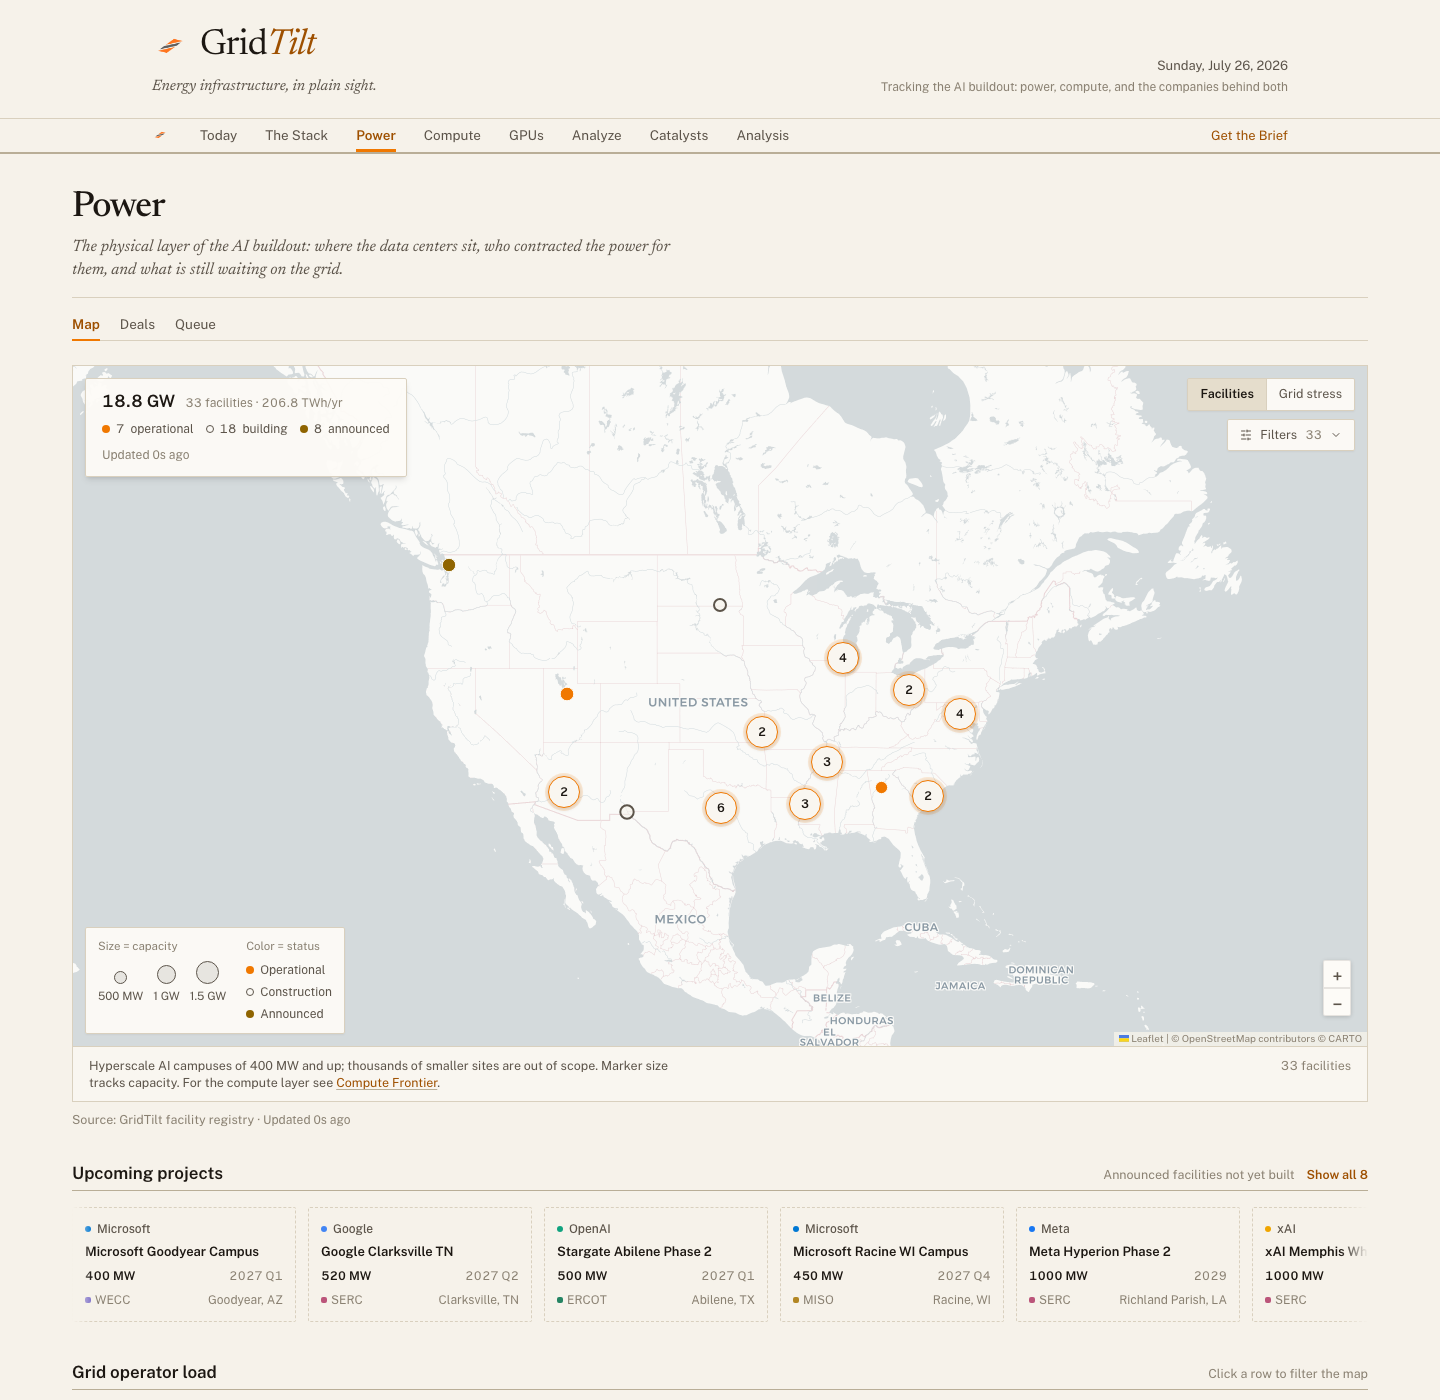
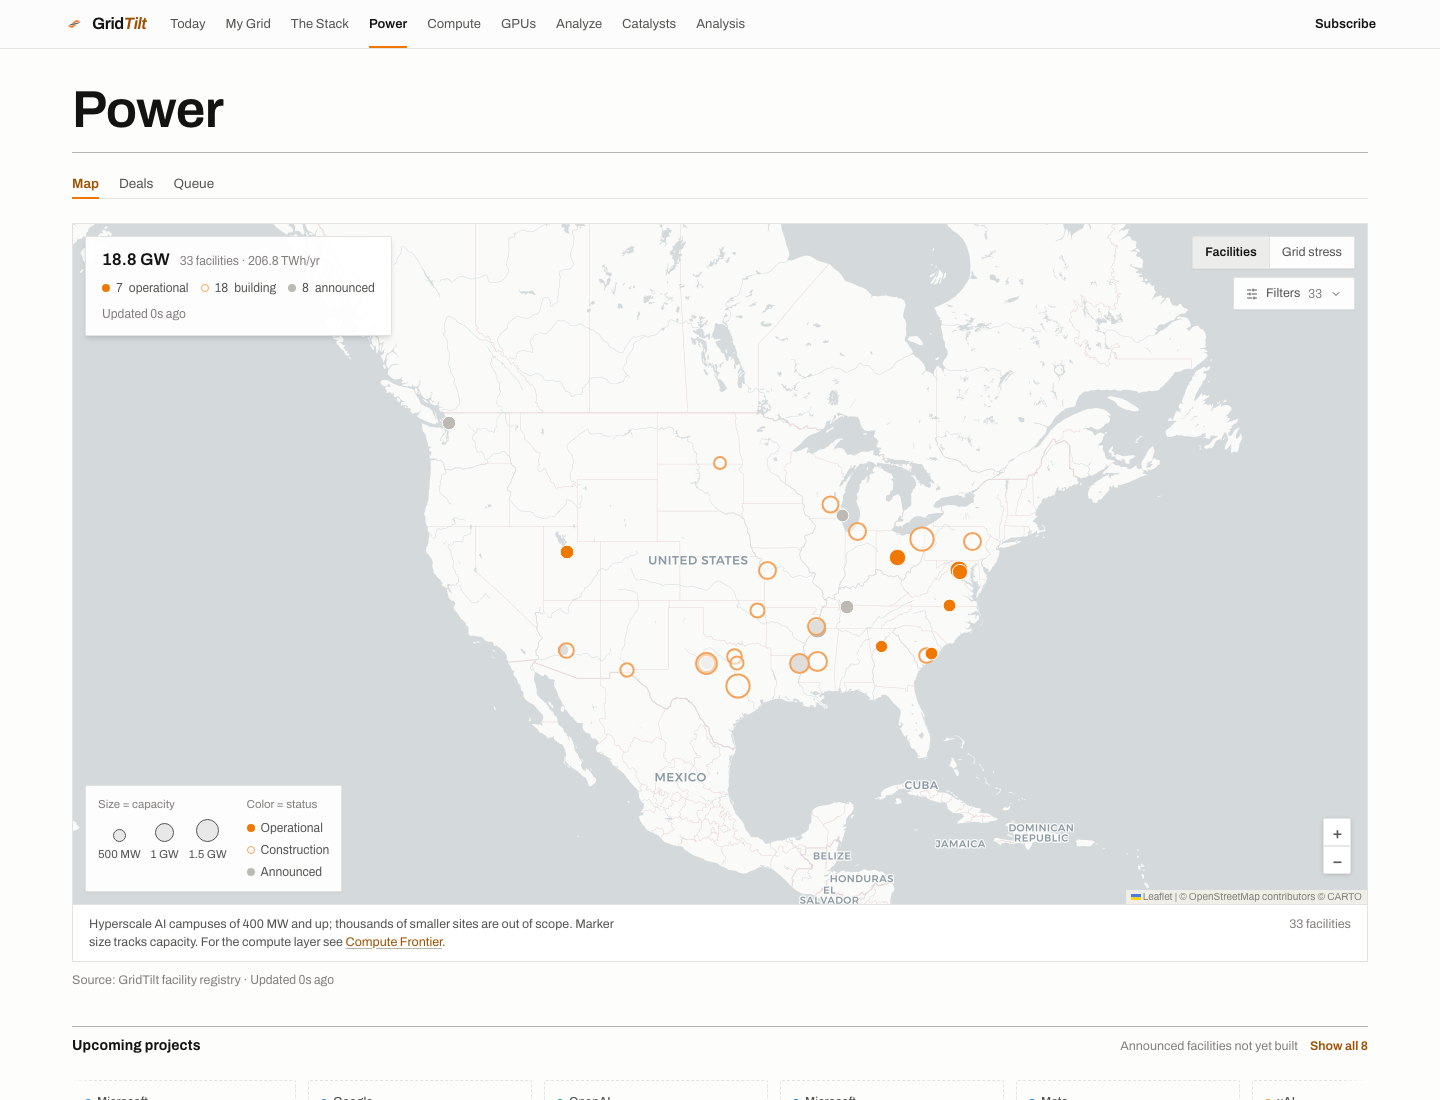
design: detailed map nodes, brand orange charts, no brown, no self-narration
Power map drops count-bubble clustering entirely; all 33 facilities
render as individual capacity-sized nodes (orange operational, orange
ring construction, neutral gray announced). The ochre-brown announced
color and dark-orange chart fills are gone; Compute Frontier charts run
brand orange with an accented headline stat and truncated operator
labels. 'tracked, not exhaustive' overexplaining removed; page-title
and scotch rules thinned.

diff --git a/client/src/pages/PowerMap.tsx b/client/src/pages/PowerMap.tsx
@@ -4,12 +4,6 @@ import { Link } from "wouter";
 import { MapContainer, TileLayer, ZoomControl, useMap, useMapEvents } from "react-leaflet";
 import L from "leaflet";
 import "leaflet/dist/leaflet.css";
-import "leaflet.markercluster";
-// MarkerCluster.Default.css is intentionally NOT imported: it only supplies
-// the library's blue cluster blobs, which clash with the paper ground. Our
-// iconCreateFunction renders .gt-cluster icons styled in the <style> block
-// below, so the default sheet has no consumer here.
-import "leaflet.markercluster/dist/MarkerCluster.css";
 import { Skeleton } from "@/components/ui/skeleton";
 import { AsOf, ErrorState } from "@/components/Freshness";
 import { X, SlidersHorizontal, ChevronDown } from "lucide-react";
@@ -100,8 +94,8 @@ const companyColors: Record<string, string> = {
  */
 const MARKER_COLORS: Record<DataCenter["status"], string> = {
   operational:  BRAND.primary,   // #F07800
-  construction: INK.secondary,   // #5C544A, drawn as a ring
-  announced:    SEMANTIC.warning, // #8F6400
+  construction: "#F5A25A",   // #5C544A, drawn as a ring
+  announced:    "#BDBAB4", // neutral: not yet real
 };
 
 /** Status as typography, not a pill: weight and ink step carry the state. */
@@ -453,7 +447,7 @@ function FacilityMarkers({
 }) {
   const map = useMap();
   const markersRef = useRef<Record<number, L.Marker>>({});
-  const clusterRef = useRef<L.MarkerClusterGroup | null>(null);
+  const clusterRef = useRef<L.LayerGroup | null>(null);
 
   const passesFilter = useCallback((dc: DataCenter): boolean => {
     return dcPassesFilters(dc, filterCompanies, filterRTOs, filterCapacity, rtoFocus);
@@ -463,25 +457,10 @@ function FacilityMarkers({
   // deliberately NOT deps here - hover/selection restyle imperatively below,
   // so mouseover no longer tears down and rebuilds every layer (audit perf fix).
   useEffect(() => {
+    // No clustering: 33 facilities read better as individual sized pins
+    // than as abstract count bubbles. Every node stays inspectable.
     if (!clusterRef.current) {
-      clusterRef.current = L.markerClusterGroup({
-        maxClusterRadius: 42,
-        showCoverageOnHover: false,
-        spiderfyOnMaxZoom: true,
-        zoomToBoundsOnClick: true,
-        spiderfyDistanceMultiplier: 1.4,
-        spiderLegPolylineOptions: { weight: 1, color: BRAND.primary, opacity: 0.4 },
-        iconCreateFunction: (cluster) => {
-          const count = cluster.getChildCount();
-          const d = count >= 10 ? 38 : 32;
-          return L.divIcon({
-            html: `<div class="gt-cluster" style="width:${d}px;height:${d}px;">${count}</div>`,
-            className: "gt-cluster-wrap",
-            iconSize: [d, d],
-            iconAnchor: [d / 2, d / 2],
-          });
-        },
-      });
+      clusterRef.current = L.layerGroup();
       map.addLayer(clusterRef.current);
     }
 
@@ -522,7 +501,7 @@ function FacilityMarkers({
       markers[dc.id] = marker;
     });
 
-    group.addLayers(Object.values(markers));
+    Object.values(markers).forEach((m) => group.addLayer(m));
     markersRef.current = markers;
 
     return () => {

diff --git a/client/src/pages/compute-frontier.tsx b/client/src/pages/compute-frontier.tsx
@@ -232,6 +232,7 @@ export default function ComputeFrontier() {
             note={metrics ? `of ${gw(metrics.totalRatedMW)} GW rated today` : undefined}
           />
           <PullStat
+            accent
             label="Planned power"
             value={metrics ? `${gw(metrics.totalPlannedMW)} GW` : "—"}
             note="full announced build-out"
@@ -255,7 +256,6 @@ export default function ComputeFrontier() {
         <Provenance
           source="GridTilt cluster registry"
           updated={metrics?.lastRefreshed ?? undefined}
-          extra="tracked, not exhaustive"
         />
       </section>
 
@@ -269,7 +269,14 @@ export default function ComputeFrontier() {
               <BarChart data={topOperators} layout="vertical" margin={{ left: 8, right: 16, top: 4, bottom: 4 }}>
                 <CartesianGrid {...gridProps} vertical={true} horizontal={false} />
                 <XAxis {...axisProps} type="number" tickFormatter={(v) => `${(v / 1000).toFixed(0)}`} />
-                <YAxis {...axisProps} type="category" dataKey="operator" width={110} interval={0} />
+                <YAxis
+                  {...axisProps}
+                  type="category"
+                  dataKey="operator"
+                  width={118}
+                  interval={0}
+                  tickFormatter={(name: string) => (name.length > 16 ? `${name.slice(0, 15)}…` : name)}
+                />
                 <RTooltip contentStyle={tooltipContentStyle} labelStyle={tooltipLabelStyle} itemStyle={tooltipItemStyle} formatter={(v: number, _n, p: any) => [`${v.toLocaleString()} MW`, `${p.payload.count} clusters`]} cursor={{ fill: BRAND.wash }} />
                 <Bar dataKey="plannedMW" fill={BRAND.primary} radius={[0, 2, 2, 0]} />
               </BarChart>
@@ -295,7 +302,7 @@ export default function ComputeFrontier() {
                 <XAxis {...axisProps} dataKey="iso" />
                 <YAxis {...axisProps} tickFormatter={(v) => `${(v / 1000).toFixed(0)}`} />
                 <RTooltip contentStyle={tooltipContentStyle} labelStyle={tooltipLabelStyle} itemStyle={tooltipItemStyle} formatter={(v: number) => [`${v.toLocaleString()} MW`, "planned"]} cursor={{ fill: BRAND.wash }} />
-                <Bar dataKey="plannedMW" fill={BRAND.secondary} radius={[2, 2, 0, 0]} />
+                <Bar dataKey="plannedMW" fill={BRAND.primary} radius={[2, 2, 0, 0]} />
               </BarChart>
             </ResponsiveContainer>
           ) : <ChartSkeleton />}
@@ -532,7 +539,7 @@ export default function ComputeFrontier() {
         <Provenance
           source="GridTilt cluster registry"
           updated={metrics?.lastRefreshed ?? undefined}
-          extra="compiled from public announcements; tracked, not exhaustive"
+          extra="compiled from public announcements"
         />
       </RuleSection>
 

diff --git a/client/src/components/editorial.tsx b/client/src/components/editorial.tsx
@@ -33,7 +33,7 @@ export function PageTitle({
   testId?: string;
 }) {
   return (
-    <div className="pt-7 sm:pt-9 pb-5 border-b-2 border-ink mb-6" data-testid={testId}>
+    <div className="pt-7 sm:pt-9 pb-4 border-b border-rule-strong mb-6" data-testid={testId}>
       <div className="flex flex-wrap items-end justify-between gap-x-6 gap-y-3">
         <div className="min-w-0">
           {kicker && <Kicker>{kicker}</Kicker>}
@@ -132,19 +132,22 @@ export function PullStat({
   value,
   delta,
   note,
+  accent = false,
   testId,
 }: {
   label: string;
   value: string;
   delta?: ReactNode;
   note?: string;
+  /** the one headline figure per band renders in brand orange */
+  accent?: boolean;
   testId?: string;
 }) {
   return (
     <div data-testid={testId}>
       <p className="text-[13px] leading-tight text-ink-secondary">{label}</p>
       <p className="mt-1 flex items-baseline gap-2">
-        <span className="font-serif font-medium text-[34px] sm:text-[42px] leading-none tracking-[-0.01em] text-ink tnum">
+        <span className={`font-serif font-medium text-[34px] sm:text-[42px] leading-none tracking-[-0.01em] tnum ${accent ? "text-brand-2" : "text-ink"}`}>
           {value}
         </span>
         {delta}

diff --git a/client/src/pages/ComputeFrontierCompare.tsx b/client/src/pages/ComputeFrontierCompare.tsx
@@ -135,7 +135,7 @@ export default function ComputeFrontierCompare() {
                 </tbody>
               </table>
               <p className="mt-3 text-[12.5px] text-ink-muted">† estimated value</p>
-              <Provenance source="GridTilt cluster registry" extra="tracked, not exhaustive" />
+              <Provenance source="GridTilt cluster registry" />
             </div>
           )}
         </>

diff --git a/client/src/lib/tokens.ts b/client/src/lib/tokens.ts
@@ -115,9 +115,9 @@ export const CATEGORY_COLORS: Record<string, string> = {
  * steps. Used by Power Map markers and Compute Frontier status charts.
  */
 export const STATUS_COLORS = {
-  operational: SEMANTIC.positiveDeep,
-  construction: SEMANTIC.warning,
-  announced: INK.muted,
+  operational: BRAND.primary,
+  construction: "#F5A25A",
+  announced: "#BDBAB4",
 } as const;
 
 export const CHART_CHROME = {

diff --git a/client/src/index.css b/client/src/index.css
@@ -314,7 +314,7 @@ html {
    - rule-thickthin (historical name) = section openings: strong hairline
    - hairline (border-rule) = rows and internal divisions */
 .rule-scotch {
-  border-top: 2px solid var(--ink);
+  border-top: 1px solid var(--rule-strong);
 }
 .rule-thickthin {
   border-top: 1px solid var(--rule-strong);
